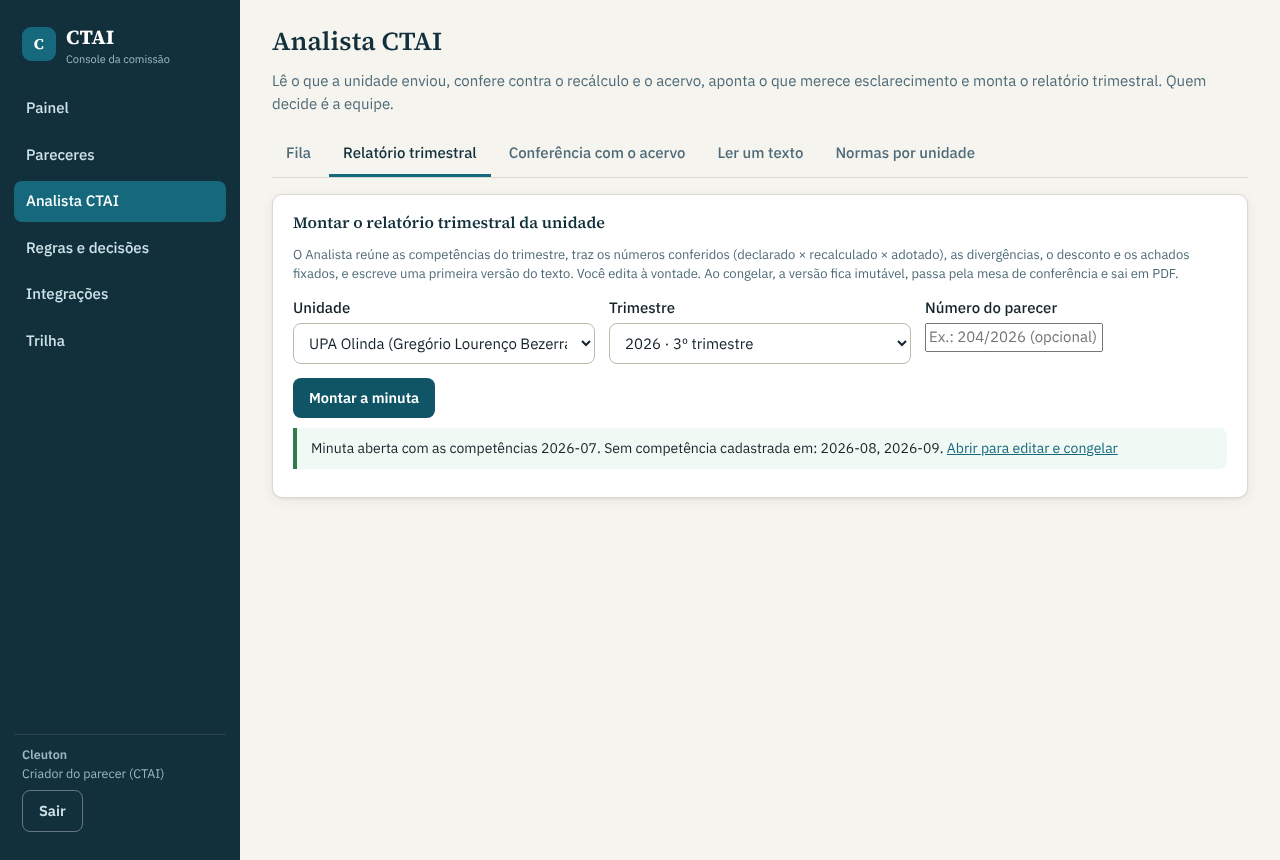
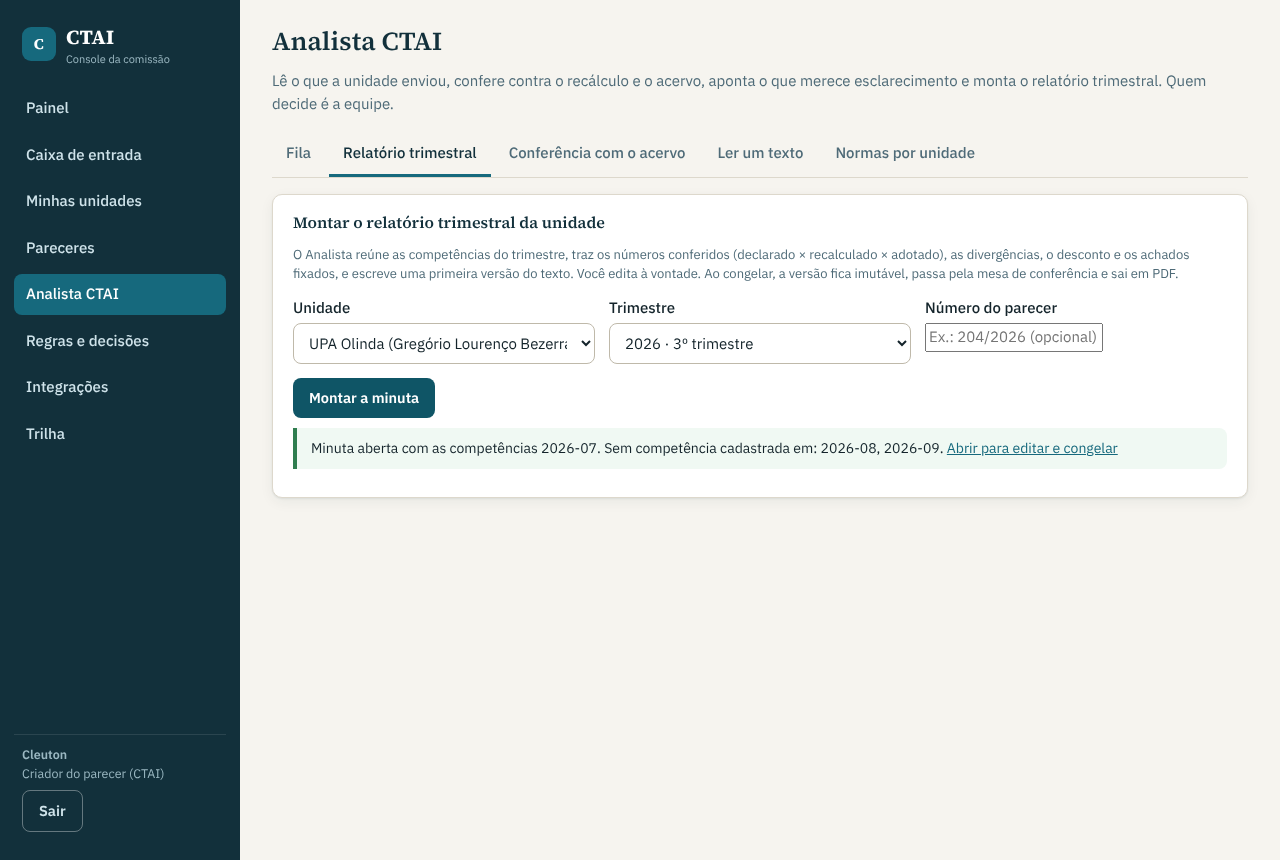
Caixa de entrada: telas (caixa, minhas unidades, entregas por carteira), produção com tempos, e2e, docs
Claude-Session: https://claude.ai/code/session_01TePQBrxAiH7ZoxMsBLHw5s

Changed region(s): [[0.0, 0.1512, 0.1875, 0.4535], [0.0312, 0.4837, 0.0625, 0.514]]

diff --git a/public/js/caixa.js b/public/js/caixa.js
@@ -1,0 +1,94 @@
+(function () {
+  'use strict';
+  // Caixa de entrada da CTAI, ausência/substituição e "Minhas unidades".
+  const { h, api, fmt, toast, janela, perguntar, selo, aviso, tabela, montar } = window.CTAI;
+  const EU = () => window.__eu || {};
+  const F = { unidade: '', tipo: '', situacao: 'pendentes' };
+  const dataBr = (iso) => (iso ? String(iso).slice(0, 10).split('-').reverse().join('/') : '—');
+  const tomTipo = { prazo_vencido: 'alta', prazo_vencer: 'atencao', resposta: 'atencao', minuta: 'atencao', sem_carteira: 'atencao', sem_gestor: 'atencao', redirecionado: '', envio: 'ok', reenvio: 'ok' };
+  const qs = (o) => { const p = new URLSearchParams(); for (const k of Object.keys(o)) if (o[k]) p.set(k, o[k]); const s = p.toString(); return s ? '?' + s : ''; };
+
+  // contador no menu
+  async function atualizarContador() {
+    try {
+      const c = await api('GET', '/api/caixa/contador');
+      const a = document.querySelector('.lateral a.nav[data-h="#/caixa"]'); if (!a) return;
+      let b = a.querySelector('.contador'); if (!b) { b = h('span', { class: 'contador', id: 'caixa-contador', 'aria-label': 'não lidos' }); a.appendChild(b); }
+      b.textContent = c.naoLidos ? String(c.naoLidos) : ''; b.style.display = c.naoLidos ? '' : 'none';
+    } catch (_) { /* sem contador */ }
+  }
+
+  async function caixa() {
+    const d = await api('GET', '/api/caixa' + qs(F));
+    const s = await api('GET', '/api/caixa/substituicoes');
+    const refazer = () => { caixa(); atualizarContador(); };
+    const abrir = async (i) => { try { await api('POST', '/api/caixa/' + i.item_id + '/lido'); } catch (_) { /* segue */ } atualizarContador(); if (i.link) location.hash = i.link; };
+    const tratar = async (i) => { const o = await perguntar('Marcar como tratado', 'Observação (opcional)', { obrigatorio: false, longo: true, texto: 'Vale para todos que recebem este item.' }); if (o === null) return; try { await api('POST', '/api/caixa/' + i.item_id + '/tratar', { obs: o }); toast('Tratado.'); refazer(); } catch (e) { toast(e.message, true); refazer(); } };
+    const reabrir = async (i) => { try { await api('POST', '/api/caixa/' + i.item_id + '/reabrir', {}); refazer(); } catch (e) { toast(e.message, true); } };
+    const redirecionar = async (i) => {
+      const pessoas = s.pessoas.filter((p) => p.usuario_id !== EU().usuario_id);
+      const sel = h('select', { id: 'cx-red-para' }, pessoas.map((p) => h('option', { value: p.usuario_id }, p.nome)));
+      const mot = h('input', { type: 'text', id: 'cx-red-motivo', placeholder: 'Motivo (opcional)' });
+      const r = await janela('Redirecionar item', h('div', null, h('p', { class: 'mudo peq' }, 'A pessoa precisa ter a unidade na carteira.'), h('div', { class: 'campo' }, h('label', { for: 'cx-red-para' }, 'Para'), sel), h('div', { class: 'campo' }, h('label', { for: 'cx-red-motivo' }, 'Motivo'), mot)), [{ rotulo: 'Cancelar', valor: null, sec: true }, { rotulo: 'Redirecionar', valor: 'ok' }]);
+      if (r !== 'ok') return;
+      try { await api('POST', '/api/caixa/' + i.item_id + '/redirecionar', { para_usuario_id: Number(sel.value), motivo: mot.value }); toast('Item redirecionado.'); refazer(); } catch (e) { toast(e.message, true); }
+    };
+    const historico = async (i) => {
+      const x = await api('GET', '/api/caixa/' + i.item_id);
+      await janela('Histórico do item', h('div', null, h('p', { class: 'mudo peq' }, 'Recebem: ' + x.destinatarios.map((p) => p.nome + (p.lido_em ? ' (leu ' + fmt.data(p.lido_em) + ')' : ' (não leu)')).join(', ')),
+        tabela([{ t: 'Quando' }, { t: 'Quem' }, { t: 'O quê' }], x.historico.map((e) => [fmt.data(e.em), e.quem, e.acao + (e.detalhe ? ' — ' + e.detalhe : '')]))));
+    };
+    const card = (i) => h('div', { class: 'cartao cx-item' + (i.lido || i.tratado ? '' : ' nao-lido'), 'data-item': i.item_id },
+      h('div', { class: 'linha espaco' }, h('div', null, selo(i.tipo_rotulo, tomTipo[i.tipo] || ''), ' ', i.em_substituicao_de ? selo('em substituição de ' + i.em_substituicao_de, 'atencao') : null, ' ', !i.lido && !i.tratado ? selo('não lido', 'alta') : null, ' ', i.tratado ? selo('tratado', 'ok') : selo('pendente', 'atencao')), h('span', { class: 'mudo peq' }, fmt.data(i.criado_em))),
+      h('h3', { style: 'margin:6px 0 2px' }, i.titulo),
+      h('p', { class: 'mudo peq', style: 'margin:0' }, [i.unidade, i.competencia_id ? 'competência ' + i.competencia_id.split('-').reverse().join('/') : null].filter(Boolean).join(' · '), i.texto ? ' — ' + i.texto : ''),
+      i.tratado ? h('p', { class: 'peq', style: 'margin:4px 0' }, 'Tratado por ' + i.tratado_por + ' em ' + fmt.data(i.tratado_em) + (i.tratado_obs ? ' — ' + i.tratado_obs : '')) : null,
+      h('div', { class: 'linha' }, i.link ? h('button', { class: 'cx-abrir', onclick: () => abrir(i) }, 'Abrir') : null,
+        i.tratado ? h('button', { class: 'sec', onclick: () => reabrir(i) }, 'Reabrir') : h('button', { class: 'sec cx-tratar', onclick: () => tratar(i) }, 'Marcar como tratado'),
+        h('button', { class: 'leve', onclick: () => redirecionar(i) }, 'Redirecionar'), h('button', { class: 'leve', onclick: () => historico(i) }, 'Histórico')));
+    const opc = (id, rot, lista, v, fn) => h('div', { class: 'campo filtro' }, h('label', { for: id }, rot), h('select', { id, onchange: (e) => fn(e.target.value) }, lista.map(([k, t]) => h('option', Object.assign({ value: k }, String(k) === String(v) ? { selected: true } : {}), t))));
+
+    // substituição
+    const pessoas = s.pessoas;
+    const ehSuper = ['superintendente', 'admin'].includes(EU().perfil);
+    const hoje = new Date().toISOString().slice(0, 10);
+    const f = { de: h('select', { id: 'sb-de' }, pessoas.map((p) => h('option', Object.assign({ value: p.usuario_id }, p.usuario_id === EU().usuario_id ? { selected: true } : {}), p.nome))),
+      para: h('select', { id: 'sb-para' }, pessoas.filter((p) => p.usuario_id !== EU().usuario_id).map((p) => h('option', { value: p.usuario_id }, p.nome))),
+      desde: h('input', { type: 'date', id: 'sb-desde', value: hoje }), ate: h('input', { type: 'date', id: 'sb-ate' }), motivo: h('input', { type: 'text', id: 'sb-motivo', placeholder: 'Ex.: férias' }) };
+    const criarSub = async () => {
+      try { await api('POST', '/api/caixa/substituicoes', { de_usuario_id: ehSuper ? Number(f.de.value) : undefined, para_usuario_id: Number(f.para.value), desde: f.desde.value, ate: f.ate.value, motivo: f.motivo.value }); toast('Caixa redirecionada.'); refazer(); } catch (e) { toast(e.message, true); }
+    };
+    montar(h('div', { class: 'topo' }, h('div', null, h('h1', null, 'Caixa de entrada'), h('p', null, 'Tudo que chegou das unidades e o que está a vencer, nas unidades da sua carteira. Quem divide a unidade com você recebe os mesmos itens; o primeiro que tratar marca para todos.'))),
+      h('div', { class: 'filtros cartao' },
+        opc('cx-f-un', 'Unidade', [['', 'Todas']].concat(d.unidades.map((u) => [u.contrato_id, u.unidade])), F.unidade, (v) => { F.unidade = v; caixa(); }),
+        opc('cx-f-tipo', 'Tipo', [['', 'Todos']].concat(Object.entries(d.tipos)), F.tipo, (v) => { F.tipo = v; caixa(); }),
+        opc('cx-f-sit', 'Situação', [['pendentes', 'Pendentes'], ['nao_lidos', 'Não lidos'], ['tratados', 'Tratados'], ['', 'Todos']], F.situacao, (v) => { F.situacao = v; caixa(); }),
+        d.contagem.naoLidos ? h('button', { class: 'sec', id: 'cx-todos-lidos', onclick: async () => { await api('POST', '/api/caixa/lidos', {}); refazer(); } }, 'Marcar todos como lidos') : null),
+      h('div', { class: 'kpis' }, h('div', { class: 'kpi' + (d.contagem.naoLidos ? ' atencao' : '') }, h('div', { class: 'r' }, 'Não lidos'), h('div', { class: 'num-grande' }, String(d.contagem.naoLidos))), h('div', { class: 'kpi' }, h('div', { class: 'r' }, 'Pendentes'), h('div', { class: 'num-grande' }, String(d.contagem.pendentes)))),
+      h('div', { id: 'cx-lista' }, d.itens.length ? d.itens.map(card) : h('div', { class: 'cartao' }, h('p', { class: 'mudo' }, 'Nada por aqui para este filtro.'))),
+      h('div', { class: 'cartao', id: 'cx-subst' }, h('h2', { style: 'margin-top:0' }, 'Ausência ou substituição'),
+        h('p', { class: 'mudo peq' }, 'Redireciona a caixa para outra pessoa por um período. Os itens novos vão para o substituto, marcados "em substituição de ' + (EU().nome || 'você') + '", e ele(a) passa a abrir as unidades durante o período.'),
+        h('div', { class: 'duas' }, ehSuper ? h('div', { class: 'campo' }, h('label', { for: 'sb-de' }, 'Caixa de'), f.de) : null, h('div', { class: 'campo' }, h('label', { for: 'sb-para' }, 'Substituto'), f.para),
+          h('div', { class: 'campo' }, h('label', { for: 'sb-desde' }, 'De'), f.desde), h('div', { class: 'campo' }, h('label', { for: 'sb-ate' }, 'Até'), f.ate), h('div', { class: 'campo' }, h('label', { for: 'sb-motivo' }, 'Motivo'), f.motivo)),
+        h('button', { id: 'sb-criar', onclick: criarSub }, 'Redirecionar a caixa'),
+        s.substituicoes.length ? tabela([{ t: 'Caixa de' }, { t: 'Substituto' }, { t: 'Período' }, { t: 'Situação' }, { t: '' }], s.substituicoes.map((x) => [x.de_nome, x.para_nome, dataBr(x.desde) + ' a ' + dataBr(x.ate), selo(x.situacao, x.situacao === 'em vigor' ? 'ok' : ''),
+          ['em vigor', 'agendada'].includes(x.situacao) ? h('button', { class: 'leve', onclick: async () => { try { await api('DELETE', '/api/caixa/substituicoes/' + x.subst_id); refazer(); } catch (e) { toast(e.message, true); } } }, 'Cancelar') : ''])) : null));
+    atualizarContador();
+  }
+
+  async function minhas() {
+    const d = await api('GET', '/api/caixa/minhas-unidades');
+    const tomPrazo = (s) => (['vencido', 'entregue com atraso'].includes(s) ? 'alta' : (s === 'a vencer' ? 'atencao' : 'ok'));
+    montar(h('div', { class: 'topo' }, h('div', null, h('h1', null, 'Minhas unidades'), h('p', null, d.todas ? 'Você vê todas as unidades (sem carteira definida).' : 'Unidades da sua carteira. Clique para abrir.'))),
+      d.unidades.length ? h('div', { class: 'unidades-grid', id: 'mu-lista' }, d.unidades.map((u) => {
+        const p = u.pior_prazo;
+        return h('a', { class: 'cartao un-card', href: u.link, 'data-contrato': u.contrato_id, style: 'text-decoration:none;color:inherit;display:block' },
+          h('h3', { style: 'margin:0' }, u.unidade), h('p', { class: 'mudo peq' }, [u.tipo, u.municipio].filter(Boolean).join(' · ') || ' '),
+          h('div', null, selo(u.fase, ''), ' ', p ? selo('Prazo ' + p.canal + ' ' + p.situacao, tomPrazo(p.situacao)) : null, ' ', u.sem_gestor ? selo('aguardando gestor', 'atencao') : null),
+          h('p', { class: 'peq' }, 'Pendências na caixa: ', h('strong', null, String(u.pendencias_caixa)), ' · Achados abertos: ', h('strong', null, String(u.achados.abertos)), ' · Divergências abertas: ', h('strong', null, String(u.divergencias_abertas))),
+          h('p', { class: 'mudo peq' }, 'Última entrega: ' + (u.ultima_entrega ? fmt.data(u.ultima_entrega) : 'nenhuma ainda')));
+      })) : h('div', { class: 'cartao' }, h('p', { class: 'mudo' }, 'Nenhuma unidade na sua carteira.')));
+  }
+
+  window.CTAI_CAIXA = { rotas: [['/caixa', caixa], ['/minhas-unidades', minhas]], atualizarContador };
+})();

diff --git a/public/js/gestao.js b/public/js/gestao.js
@@ -2,7 +2,7 @@
   'use strict';
   // Gestão CTAI: painel da superintendente, produção, carteira, usuários e IA. Só superintendente e administrador.
   const { h, api, fmt, toast, janela, confirmar, selo, aviso, tabela, montar } = window.CTAI;
-  const ABAS = [['', 'Painel'], ['producao', 'Produção'], ['carteira', 'Carteira'], ['importar', 'Importar'], ['usuarios', 'Usuários'], ['acessos', 'Acessos'], ['ia', 'IA']];
+  const ABAS = [['', 'Painel'], ['producao', 'Produção'], ['carteira', 'Carteira'], ['entregas', 'Entregas por carteira'], ['importar', 'Importar'], ['usuarios', 'Usuários'], ['acessos', 'Acessos'], ['ia', 'IA']];
   const kpi = (r, v, nota, tom) => h('div', { class: 'kpi' + (tom ? ' ' + tom : '') }, h('div', { class: 'r' }, r), h('div', { class: 'num-grande' }, String(v)), nota ? h('div', { class: 'r' }, nota) : null);
   const F = { trimestre: '', contrato: '', usuario_id: '' }; // filtros lembrados enquanto a página está aberta
   const qs = (o) => { const p = new URLSearchParams(); for (const k of Object.keys(o)) if (o[k]) p.set(k, o[k]); const s = p.toString(); return s ? '?' + s : ''; };
@@ -98,10 +98,11 @@
       h('div', { class: 'kpis' }, kpi('Itens conferidos', t.itens_conferidos), kpi('Divergências tratadas', t.divergencias_tratadas), kpi('Achados encaminhados', t.achados_encaminhados, t.achados_respondidos + ' já respondidos'),
         kpi('Minutas criadas', t.minutas_criadas, t.minutas_congeladas + ' congeladas')),
       h('div', { class: 'cartao' }, h('h2', { style: 'margin-top:0' }, 'Por funcionário'),
-        tabela([{ t: 'Funcionário' }, { t: 'Itens', n: true }, { t: 'Diverg.', n: true }, { t: 'Achados enc./resp./desc.' }, { t: 'Minutas cri./cong.' }, { t: 'Receb. → conferido' }, { t: 'Carga atual' }],
+        tabela([{ t: 'Funcionário' }, { t: 'Itens', n: true }, { t: 'Diverg.', n: true }, { t: 'Achados enc./resp./desc.' }, { t: 'Minutas cri./cong.' }, { t: 'Receb. → conferido' }, { t: 'Até 1ª leitura' }, { t: 'Até tratar' }, { t: 'Carga atual' }],
           p.funcionarios.map((f) => [h('div', null, h('strong', null, f.nome), h('div', { class: 'r mudo peq' }, f.perfil)), f.itens_conferidos, f.divergencias_tratadas,
             f.achados.encaminhados + ' / ' + f.achados.respondidos + ' / ' + f.achados.descartados, f.minutas.criadas + ' / ' + f.minutas.congeladas,
             f.tempo_medio ? n1(f.tempo_medio.dias) + ' d (' + f.tempo_medio.amostra + ')' : '—',
+            f.caixa && f.caixa.horas_ate_leitura !== null ? n1(f.caixa.horas_ate_leitura) + ' h (' + f.caixa.lidos + ')' : '—', f.caixa && f.caixa.horas_ate_tratamento !== null ? n1(f.caixa.horas_ate_tratamento) + ' h (' + f.caixa.tratados_por_mim + ')' : '—',
             h('div', { class: 'peq carga' }, f.carga.unidades + ' unid. · ' + f.carga.divergencias_abertas + ' diverg. · ' + f.carga.achados_abertos + ' achados · ' + f.carga.minutas_abertas + ' minuta(s) · ' + f.carga.conferencias_pendentes + ' a conferir')]))));
   }
 
@@ -309,12 +310,39 @@
     desenhar();
   }
 
+  // ---------- Entregas por carteira ----------
+  async function entregas() {
+    const d = await api('GET', '/api/gestao/entregas' + qs({ contrato: F.contrato, usuario_id: F.usuario_id }));
+    const c = await api('GET', '/api/gestao/carteira');
+    const linha = (e) => [e.unidade, (e.competencia_id || '').split('-').reverse().join('/') + ' v' + e.versao, fmt.data(e.recebido_em),
+      e.caixa.length ? e.caixa.map((x) => x.nome + (x.em_substituicao_de ? ' (em substituição de ' + x.em_substituicao_de + ')' : '')).join(', ') : h('span', { class: 'mudo' }, 'sem registro na caixa'),
+      e.lido ? fmt.data(e.lido_em) : (e.destaque ? selo('não lido há ' + e.pendente_dias + ' d', 'alta') : selo('não lido', 'atencao')),
+      e.tratado ? e.tratado_por + ' · ' + fmt.data(e.tratado_em) : (e.pendente_dias === null ? '—' : selo('pendente há ' + e.pendente_dias + ' d', e.pendente_dias >= d.dias_nao_lido ? 'atencao' : ''))];
+    const cab = [{ t: 'Unidade' }, { t: 'Competência' }, { t: 'Chegou' }, { t: 'Caiu na caixa de' }, { t: 'Lido' }, { t: 'Tratado' }];
+    const dias = h('input', { type: 'number', id: 'en-dias', min: 1, max: 60, value: d.dias_nao_lido, style: 'width:80px' });
+    montar(cabecalho('entregas'),
+      h('div', { class: 'filtros cartao' },
+        seletor('en-un', 'Unidade', [['', 'Todas']].concat(c.unidades.map((u) => [u.contrato_id, u.unidade])), F.contrato, (v) => { F.contrato = v; entregas(); }),
+        seletor('en-func', 'Analista', [['', 'Todos']].concat(c.funcionarios.map((f) => [f.usuario_id, f.nome])), F.usuario_id, (v) => { F.usuario_id = v; entregas(); }),
+        h('div', { class: 'campo filtro' }, h('label', { for: 'en-dias' }, 'Destacar não lidos há (dias)'), dias),
+        h('button', { class: 'sec', id: 'en-dias-ok', onclick: async () => { try { await api('PUT', '/api/gestao/caixa-config', { dias_nao_lido: Number(dias.value) }); toast('Limite salvo.'); entregas(); } catch (e) { toast(e.message, true); } } }, 'Salvar limite'),
+        h('a', { class: 'btn sec', id: 'en-pdf', href: '/api/gestao/entregas.pdf' + qs({ contrato: F.contrato, usuario_id: F.usuario_id }), target: '_blank', rel: 'noopener' }, 'Exportar PDF')),
+      h('div', { class: 'kpis' }, kpi('Entregas', d.total.entregas), kpi('Não lidas', d.total.nao_lidas, '', d.total.nao_lidas ? 'atencao' : ''), kpi('Pendentes', d.total.pendentes), kpi('Não lidas há ' + d.dias_nao_lido + ' d ou mais', d.total.destacadas, '', d.total.destacadas ? 'alta' : ''),
+        kpi('Sem responsável', d.sem_responsavel.length, 'unidades', d.sem_responsavel.length ? 'atencao' : '')),
+      d.analistas.map((a) => h('div', { class: 'cartao', 'data-analista': a.login }, h('div', { class: 'linha espaco' }, h('h2', { style: 'margin:0' }, a.nome), h('span', { class: 'mudo peq' }, a.resumo.entregas + ' entrega(s) · ' + a.resumo.nao_lidas + ' não lida(s) · ' + a.resumo.pendentes + ' pendente(s)' + (a.resumo.destacadas ? ' · ' + a.resumo.destacadas + ' em destaque' : ''))),
+        tabela(cab, a.unidades.flatMap((u) => u.entregas.map(linha))))),
+      d.analistas.length ? null : h('div', { class: 'cartao' }, h('p', { class: 'mudo' }, 'Nenhuma entrega registrada na caixa ainda.')),
+      h('div', { class: 'cartao', id: 'en-sem-resp' }, h('h2', { style: 'margin-top:0' }, 'Unidades sem responsável (caixa da superintendente)'),
+        d.sem_responsavel.length ? tabela(cab, d.sem_responsavel.flatMap((u) => (u.entregas.length ? u.entregas.map(linha) : [[u.unidade, '—', '—', selo('sem carteira', 'atencao'), '—', '—']]))) : h('p', { class: 'mudo' }, 'Todas as unidades têm responsável.')));
+  }
+
   async function aba() {
     const h2 = location.hash.replace(/^#\/gestao\/?/, '');
     if (!F.lista) { try { F.lista = (await api('GET', '/api/gestao/painel?trimestre=' + (F.trimestre || ''))).trimestres; } catch (_) { F.lista = []; } }
     if (h2 === 'producao') return producao();
     if (h2 === 'carteira') return carteira();
     if (h2 === 'importar') return importar();
+    if (h2 === 'entregas') return entregas();
     if (h2 === 'usuarios') return usuarios();
     if (h2 === 'acessos') return acessos();
     if (h2 === 'ia') return ia();

diff --git a/test/e2e/run.js b/test/e2e/run.js
@@ -297,6 +297,22 @@ let base;
     await ir(sup, '#/gestao', 'text=Alertas'); await sup.waitForSelector('#fila-sem-gestor');
     assert.match(await sup.textContent('#fila-sem-gestor'), /Exemplo Alfa/);
     log('importação em lote da carteira e fila de unidades aguardando gestor');
+    // Caixa de entrada, minhas unidades e entregas por carteira
+    const CXs = require('../../server/caixa');
+    const uCol = S.db.get("SELECT usuario_id FROM usuarios WHERE login = 'colega1'").usuario_id;
+    await sup.evaluate(async (id) => { await fetch('/api/gestao/carteira/' + id, { method: 'PUT', headers: { 'content-type': 'application/json', 'x-ctai': '1' }, body: JSON.stringify({ unidades: ['DEMO-UPA'] }) }); }, uCol);
+    for (const e of S.db.all('SELECT envio_id, cid, versao FROM envios WHERE recebido_em IS NOT NULL ORDER BY envio_id DESC LIMIT 2')) { S.db.run("DELETE FROM caixa_destinos WHERE item_id IN (SELECT item_id FROM caixa_itens WHERE chave = ?)", 'envio:' + e.envio_id); S.db.run('DELETE FROM caixa_itens WHERE chave = ?', 'envio:' + e.envio_id); CXs.eventoEnvio(S.db, e); }
+    CXs.sincronizar(S.db, { forcar: true });
+    await colegaCart.goto(colegaCart.url().split('#')[0] + '#/caixa'); await colegaCart.waitForSelector('#cx-lista .cx-item', { timeout: 8000 });
+    assert.ok(await colegaCart.locator('#caixa-contador').count() >= 1, 'contador de não lidos no menu');
+    await colegaCart.setViewportSize({ width: 1280, height: 1500 }); await limpa(colegaCart); await colegaCart.screenshot({ path: path.join(CAP, '27-caixa-entrada.png') });
+    await colegaCart.locator('.cx-tratar').first().click(); await colegaCart.fill('#perg-campo', 'Conferido'); await colegaCart.click('dialog button:has-text("Confirmar")');
+    await colegaCart.waitForFunction(() => document.querySelectorAll('.cx-item').length >= 0, null, { timeout: 5000 }); await colegaCart.waitForTimeout(500);
+    await colegaCart.goto(colegaCart.url().split('#')[0] + '#/minhas-unidades'); await colegaCart.waitForSelector('#mu-lista .un-card', { timeout: 8000 });
+    await colegaCart.setViewportSize({ width: 1280, height: 900 }); await limpa(colegaCart); await colegaCart.screenshot({ path: path.join(CAP, '28-minhas-unidades.png') });
+    await ir(sup, '#/gestao/entregas', '#en-pdf'); await sup.waitForSelector('[data-analista="colega1"]', { timeout: 8000 });
+    await sup.setViewportSize({ width: 1280, height: 1100 }); await limpa(sup); await sup.screenshot({ path: path.join(CAP, '29-gestao-entregas.png') });
+    log('caixa de entrada, minhas unidades e entregas por carteira');
     for (const p of paginas) assert.deepEqual(p.erros, [], 'erros de JavaScript na tela: ' + p.erros.join(' | '));
     console.log('\nE2E OK');
   } catch (e) {

diff --git a/public/js/ctai.js b/public/js/ctai.js
@@ -560,11 +560,13 @@
   async function iniciar() {
     const me0 = await api('GET', '/api/auth/me').catch(() => null);
     window.__soGestao = me0 && ['superintendente', 'admin'].includes(me0.usuario.perfil) ? [{ href: '#/gestao', rotulo: 'Gestão CTAI' }] : [];
-    EU = await casca({ titulo: 'CTAI', subtitulo: 'Console da comissão', perfis: ['admin', 'criador', 'colega', 'superintendente'], itens: [{ href: '#/', rotulo: 'Painel' }, { href: '#/pareceres', rotulo: 'Pareceres' }, { href: '#/analista', rotulo: 'Analista CTAI' }, { href: '#/regras', rotulo: 'Regras e decisões' }, { href: '#/integracoes', rotulo: 'Integrações' }, { href: '#/trilha', rotulo: 'Trilha' }].concat(window.__soGestao || []) });
+    EU = await casca({ titulo: 'CTAI', subtitulo: 'Console da comissão', perfis: ['admin', 'criador', 'colega', 'superintendente'], itens: [{ href: '#/', rotulo: 'Painel' }, { href: '#/caixa', rotulo: 'Caixa de entrada' }, { href: '#/minhas-unidades', rotulo: 'Minhas unidades' }, { href: '#/pareceres', rotulo: 'Pareceres' }, { href: '#/analista', rotulo: 'Analista CTAI' }, { href: '#/regras', rotulo: 'Regras e decisões' }, { href: '#/integracoes', rotulo: 'Integrações' }, { href: '#/trilha', rotulo: 'Trilha' }].concat(window.__soGestao || []) });
     if (!EU) return;
+    window.__eu = EU;
+    window.CTAI_CAIXA.atualizarContador(); setInterval(() => window.CTAI_CAIXA.atualizarContador(), 60000);
     if (ehAdmin()) { const nav = document.querySelector('.lateral .rodape'); nav.parentNode.insertBefore(h('a', { class: 'nav', href: '#/admin', 'data-h': '#/admin' }, 'Administração'), nav); }
     META = await api('GET', '/api/meta');
-    rotear([['/', painel], ['/c/:cid', competencia], ['/c/:cid/:aba', competencia], ['/pareceres', pareceres], ['/p/:id', parecer], ['/v/:id', mesa], ['/analista', analista], ['/analista/:aba', analista], ['/regras', regras], ['/regras/:contrato', regras], ['/integracoes', integracoes], ['/trilha', trilha], ['/admin', admin]].concat(eh('superintendente', 'admin') ? window.CTAI_GESTAO.rotas : []), (hash) => window.__marcarMenu && window.__marcarMenu(hash));
+    rotear([['/', painel], ['/c/:cid', competencia], ['/c/:cid/:aba', competencia], ['/pareceres', pareceres], ['/p/:id', parecer], ['/v/:id', mesa], ['/analista', analista], ['/analista/:aba', analista], ['/regras', regras], ['/regras/:contrato', regras], ['/integracoes', integracoes], ['/trilha', trilha], ['/admin', admin]].concat(window.CTAI_CAIXA.rotas).concat(eh('superintendente', 'admin') ? window.CTAI_GESTAO.rotas : []), (hash) => window.__marcarMenu && window.__marcarMenu(hash));
     if ('serviceWorker' in navigator) navigator.serviceWorker.register('/sw.js').catch(() => {});
   }
   iniciar();

diff --git a/public/sw.js b/public/sw.js
@@ -1,6 +1,6 @@
 /* Service worker: guarda só os arquivos estáticos (telas, fontes, estilos). Nenhuma resposta da API é guardada. */
-const VERSAO = 'ctai-v4';
-const ESTATICOS = ['/', '/unidade', '/ctai', '/css/app.css', '/js/core.js', '/js/login.js', '/js/unidade.js', '/js/ctai.js', '/js/gestao.js', '/icons/icon.svg'];
+const VERSAO = 'ctai-v5';
+const ESTATICOS = ['/', '/unidade', '/ctai', '/css/app.css', '/js/core.js', '/js/login.js', '/js/unidade.js', '/js/ctai.js', '/js/gestao.js', '/js/caixa.js', '/icons/icon.svg'];
 self.addEventListener('install', (e) => { e.waitUntil(caches.open(VERSAO).then((c) => c.addAll(ESTATICOS).catch(() => {})).then(() => self.skipWaiting())); });
 self.addEventListener('activate', (e) => { e.waitUntil(caches.keys().then((ks) => Promise.all(ks.filter((k) => k !== VERSAO).map((k) => caches.delete(k)))).then(() => self.clients.claim())); });
 self.addEventListener('fetch', (e) => {

diff --git a/public/css/app.css b/public/css/app.css
@@ -120,3 +120,5 @@ label.ck{display:block;padding:5px 0;cursor:pointer}label.ck input{margin-right:
 .sem-carteira select{width:auto;min-width:220px}
 .sem-carteira button{white-space:nowrap}
 td .linha{flex-wrap:nowrap;white-space:nowrap}
+.nav .contador{background:var(--verm);color:#fff;border-radius:10px;padding:0 7px;font-size:12px;margin-left:8px;font-weight:700}
+.cx-item.nao-lido{border-left:4px solid var(--acento)}

diff --git a/public/ctai.html b/public/ctai.html
@@ -13,6 +13,7 @@
 <div id="app"><p style="padding:20px">Carregando…</p></div>
 <script src="/js/core.js"></script>
 <script src="/js/gestao.js"></script>
+<script src="/js/caixa.js"></script>
 <script src="/js/ctai.js"></script>
 </body>
 </html>

diff --git a/docs/MANUAL-CTAI.md b/docs/MANUAL-CTAI.md
@@ -2,6 +2,19 @@
 
 Endereço: `/ctai`. Perfis: **criador** (monta o parecer), **colega** (confere), **superintendente** (confere de novo e autoriza), **administrador** (usuários, demonstração, integrações; **não** confere nem autoriza na mesa).
 
+## Caixa de entrada e Minhas unidades (todos da CTAI)
+
+**Caixa de entrada** (menu, com o número de não lidos). Um item para cada fato que pede atenção: relatório recebido, reenvio ou correção, resposta da unidade a um esclarecimento, prazo do SEI (dia 20) ou do SIMAS (dia 25) **a vencer** ou **vencido**, minuta aguardando a sua conferência, unidade sem gestor, unidade sem carteira (só a superintendente recebe esta) e item redirecionado a você.
+- Quem recebe: **quem tem a unidade na carteira**. Co-responsáveis recebem todos os itens. Unidade sem carteira cai na caixa da superintendente. Ninguém vê item de unidade fora da sua carteira (nem pelo endereço); superintendente e administrador veem o que é deles.
+- Cada item mostra unidade, tipo, competência, data, se foi lido (por pessoa) e se foi **tratado** (quem e quando). **Abrir** leva direto à tela certa e marca como lido. **Marcar como tratado** vale para todos os destinatários; o primeiro que tratar marca, quem tentar depois é avisado. **Reabrir** é possível e o **Histórico** guarda tudo (criado, lido, tratado, reaberto, redirecionado).
+- Filtros por unidade, tipo e situação (pendentes, não lidos, tratados). A lista vem ordenada por urgência: prazo vencido, prazo a vencer, resposta da unidade, minuta, reenvio, relatório recebido. Avisos de prazo e de unidade sem gestor/carteira fecham sozinhos quando a situação se resolve.
+- **Redirecionar item**: envia um item a outra pessoa (ela precisa ter a unidade na carteira) e ela recebe um aviso "redirecionado a você".
+- Os textos da caixa trazem só unidade, tipo, competência e versão. Nada de conteúdo de resposta ou dado de paciente.
+- **Ausência ou substituição**: no fim da própria caixa. Escolha o substituto e o período (a superintendente pode fazer isso para qualquer pessoa; cada analista, só para si). Itens **novos** do período vão para o substituto, marcados "em substituição de fulano", e ele(a) passa a abrir as unidades enquanto durar. Dá para cancelar. Tudo na trilha.
+- Aviso por e-mail **não existe** nesta versão. Há um ponto de extensão (`avisos.aoCriar` em `server/caixa.js`) para ligar no futuro.
+
+**Minhas unidades** (menu): as unidades da sua carteira com fase da conferência, pior prazo (20/25), pendências na caixa, achados e divergências abertos e data da última entrega. Cada cartão abre a unidade.
+
 ## Menu
 **Painel · Pareceres · Analista CTAI · Regras e decisões · Integrações · Trilha · Gestão CTAI** (superintendente e admin) **· Administração** (só admin).
 
@@ -70,7 +83,7 @@ Cada competência com envio tem a aba **Checklist de recebimento** (console da C
 
 ## Gestão CTAI (superintendente e administrador)
 
-Menu **Gestão CTAI**, com sete abas (Painel, Produção, Carteira, Importar, Usuários, Acessos, IA). Só a superintendente e o administrador veem esta área; as outras pessoas da CTAI não têm o menu e recebem "sem acesso" se tentarem pelo endereço.
+Menu **Gestão CTAI**, com oito abas (Painel, Produção, Carteira, Entregas por carteira, Importar, Usuários, Acessos, IA). Só a superintendente e o administrador veem esta área; as outras pessoas da CTAI não têm o menu e recebem "sem acesso" se tentarem pelo endereço.
 
 **Painel.** A visão da superintendente num só lugar. Filtros por **trimestre, unidade e funcionário**; botão **Exportar PDF** gera o mesmo painel em PDF.
 - Cartões: unidades, envios recebidos, incompletos e pendentes, prazos vencidos / a vencer / com atraso, achados abertos e vencidos, pareceres em rascunho e congelados, unidades sem carteira.
@@ -87,6 +100,8 @@ Menu **Gestão CTAI**, com sete abas (Painel, Produção, Carteira, Importar, Us
 - quem ainda não tem nenhuma unidade vê todas (modo compatível); o **modo estrito** faz essa pessoa não ver nada até receber unidades;
 - superintendente e administrador veem todas;
 - cada mudança entra no **histórico** (quem, quando, motivo) e na trilha.
+
+**Entregas por carteira.** Por analista e por unidade: quando cada relatório chegou, em qual caixa caiu (inclusive "em substituição de"), se foi lido, se foi tratado (quem e quando) e há quanto tempo está pendente. Relatórios **não lidos há mais de N dias** ficam em destaque (N configurável, padrão 3, botão Salvar limite). Unidades sem responsável aparecem à parte, na caixa da superintendente. Filtros por unidade e analista; **Exportar PDF**. Na aba **Produção** há duas colunas novas: tempo médio até a primeira leitura e até o tratamento (relatórios, respostas e minutas).
 
 **Importar (unidades e carteira em lote).** Para cadastrar de uma vez as unidades (UPA, UPAE, Hospital) e distribuí-las entre os analistas.
 1. Clique em **Baixar modelo** (dados fictícios) e preencha: `tipo` (UPA, UPAE ou Hospital), `unidade`, `municipio` (opcional) e `analista` (login ou nome; vários analistas na mesma unidade separados por `|`). CSV em UTF-8, separado por `;` ou `,`.

diff --git a/docs/STATUS.md b/docs/STATUS.md
@@ -21,9 +21,10 @@ Primeira versão para teste. Funciona de ponta a ponta com **dados fictícios**.
 | **Aba Acessos** (Gestão CTAI) | entradas, falhas, bloqueios, saídas, origem, IP mascarado, agente, cadastros dos gestores; filtros; CSV e PDF; sem edição | `test/equipe-acessos.test.js` + E2E |
 | **Deploy no Render** (21/10/2026) | `render.yaml` (Docker, Starter, disco de 1 GB em `/dados`, saúde em `/api/saude`), `CTAI_IPS_INTERNOS` com IP de cliente seguro atrás de proxy (`CTAI_PROXY_SALTOS`, `CTAI_IP_CABECALHO`, `CTAI_PROXIES_CONFIAVEIS`), `/api/origem` para conferir, backup do banco pelo admin, guia `docs/GUIA-RENDER.md` | `test/exposicao-ips.test.js` (8: IP na lista, fora, forjado, indeterminado, IPv6/CIDR, proxies) |
 | **Importação em lote de unidades e carteira** (21/10/2026) | CSV (tipo, unidade, município, analista), modelo fictício, prévia sem gravar, relatório de problemas, decisões (analista inexistente, unidade em duas carteiras), modos acrescentar/substituir, gravação atômica, trilha e histórico, reimportação sem duplicar, unidade nova "aguardando gestor" na fila do Painel | `test/importacao-carteira.test.js` + E2E |
+| **Caixa de entrada da CTAI** (21/10/2026) | itens por evento (relatório/reenvio, resposta da unidade, prazos 20/25, minuta, sem gestor/carteira, redirecionado), por carteira com co-responsáveis, lido por pessoa, tratado para todos com histórico, substituição por período, Minhas unidades, aba Entregas por carteira (destaque de não lidos, PDF) e tempos de leitura/tratamento na Produção; aviso por e-mail **fora** (ponto de extensão) | `test/caixa.test.js` + E2E |
 | Dados de demonstração | contrato fictício, recriar e apagar | testes + E2E |
 
-Números: `npm test` = **101 testes, 0 falhas**. `npm run e2e` = fluxo completo no Chromium (unidade envia, PDF válido, CTAI recalcula, minuta, congelar, três pessoas conferem, superintendente autoriza, SEI do parecer registrado, trilha íntegra, número do SEI do relatório registrado pela unidade, dois canais e alerta de nova versão, sem erro de JavaScript nas telas percorridas). Capturas em `docs/capturas/`.
+Números: `npm test` = **112 testes, 0 falhas**. `npm run e2e` = fluxo completo no Chromium (unidade envia, PDF válido, CTAI recalcula, minuta, congelar, três pessoas conferem, superintendente autoriza, SEI do parecer registrado, trilha íntegra, número do SEI do relatório registrado pela unidade, dois canais e alerta de nova versão, sem erro de JavaScript nas telas percorridas). Capturas em `docs/capturas/`.
 
 ## Vagas (encaixes) deixadas prontas
 
